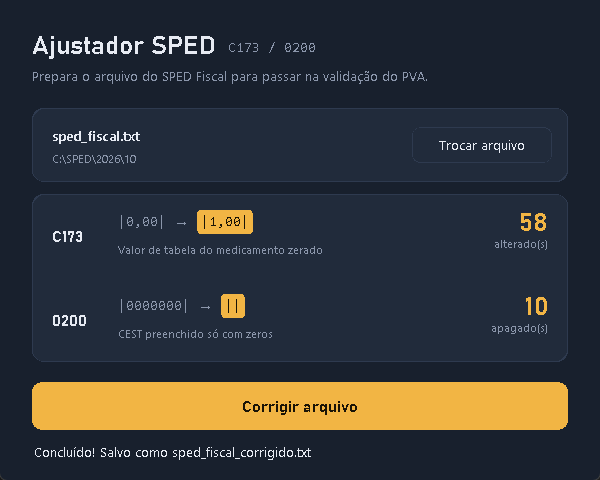
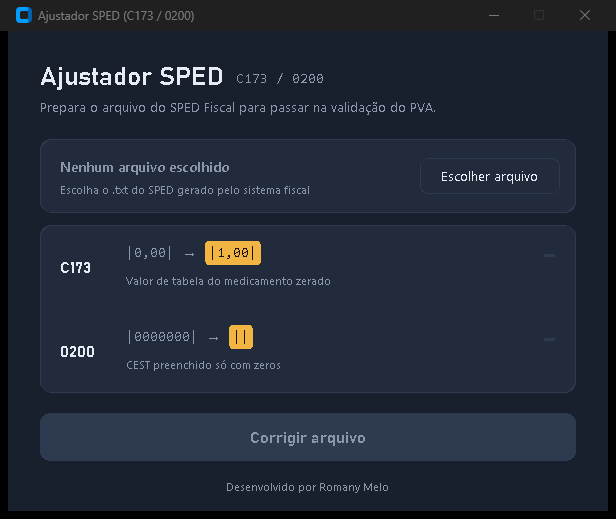
Adiciona assinatura na tela, CHANGELOG e atualiza README e imagem

diff --git a/ajustador_sped_c173_0200.py b/ajustador_sped_c173_0200.py
@@ -132,6 +132,10 @@ def criar_regra(pai, linha, registro, antes, depois, descricao):
 
 # --- CONSTRUÇÃO DA INTERFACE ---
 
+# Assinatura: empacotada primeiro para reservar o espaço no rodapé
+label_assinatura = ctk.CTkLabel(app, text="Desenvolvido por Romany Melo", font=FONTE_PEQUENA, text_color=SUAVE)
+label_assinatura.pack(side="bottom", pady=(0, 10))
+
 frame_cabecalho = ctk.CTkFrame(app, fg_color="transparent")
 frame_cabecalho.pack(fill="x", padx=32, pady=(26, 0))
 

diff --git a/README.md b/README.md
@@ -37,7 +37,11 @@ python ajustador_sped_c173_0200.py
 pyinstaller --noconfirm ajustador_sped_c173_0200.spec
 ```
 
-O `.exe` é gerado em `dist/`.
+O `.exe` é gerado em `dist/`. Ele não vai para o repositório (está no `.gitignore`): anexe-o a uma nova [Release](../../releases/new) com a tag da versão (veja o [CHANGELOG](CHANGELOG.md)).
+
+## Autor
+
+Desenvolvido por Romany Melo.
 
 ## Licença
 

diff --git a/CHANGELOG.md b/CHANGELOG.md
@@ -1,0 +1,10 @@
+# Histórico de versões
+
+## 1.1.0 - 2026-11-16
+
+- Assinatura "Desenvolvido por Romany Melo" discreta no rodapé da tela.
+- Imagem da tela no README atualizada.
+
+## 1.0.0
+
+- Versão inicial: corrige o valor de tabela zerado no C173 (`|0,00|` para `|1,00|`) e apaga o CEST preenchido só com zeros no 0200.
